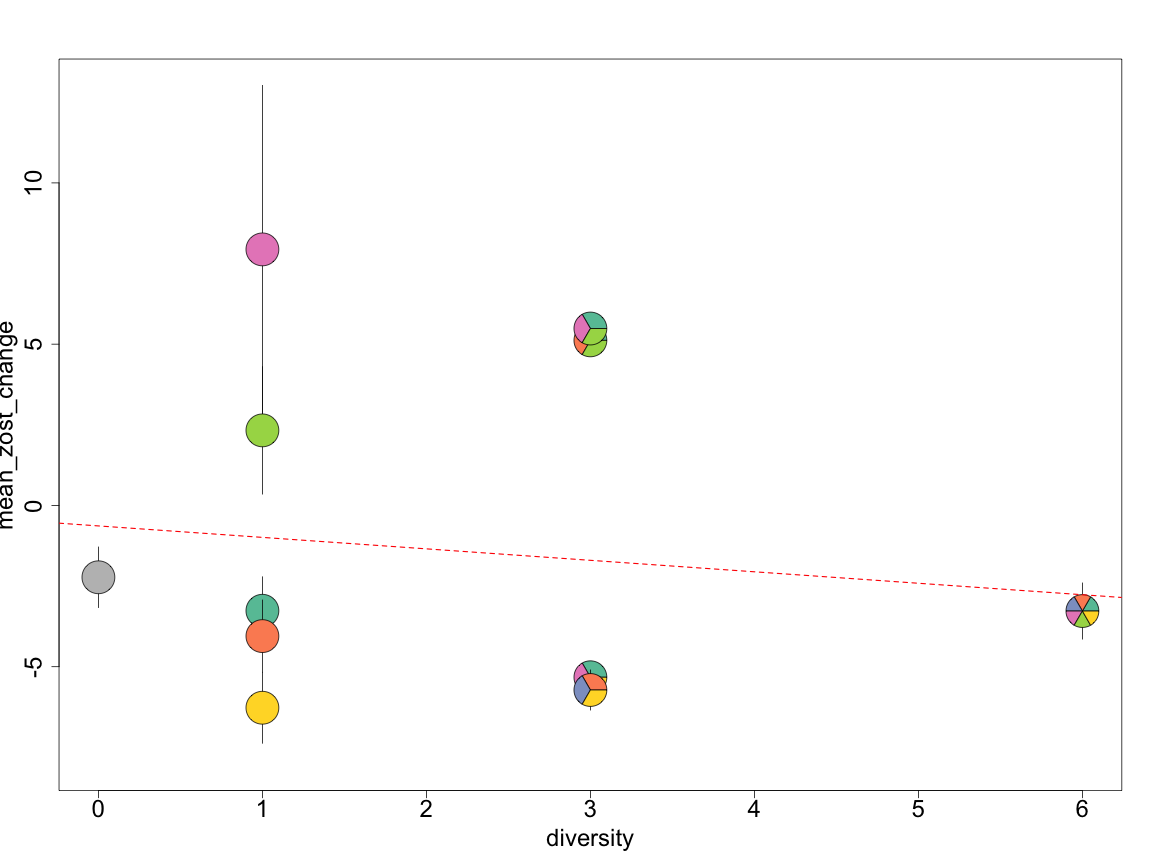
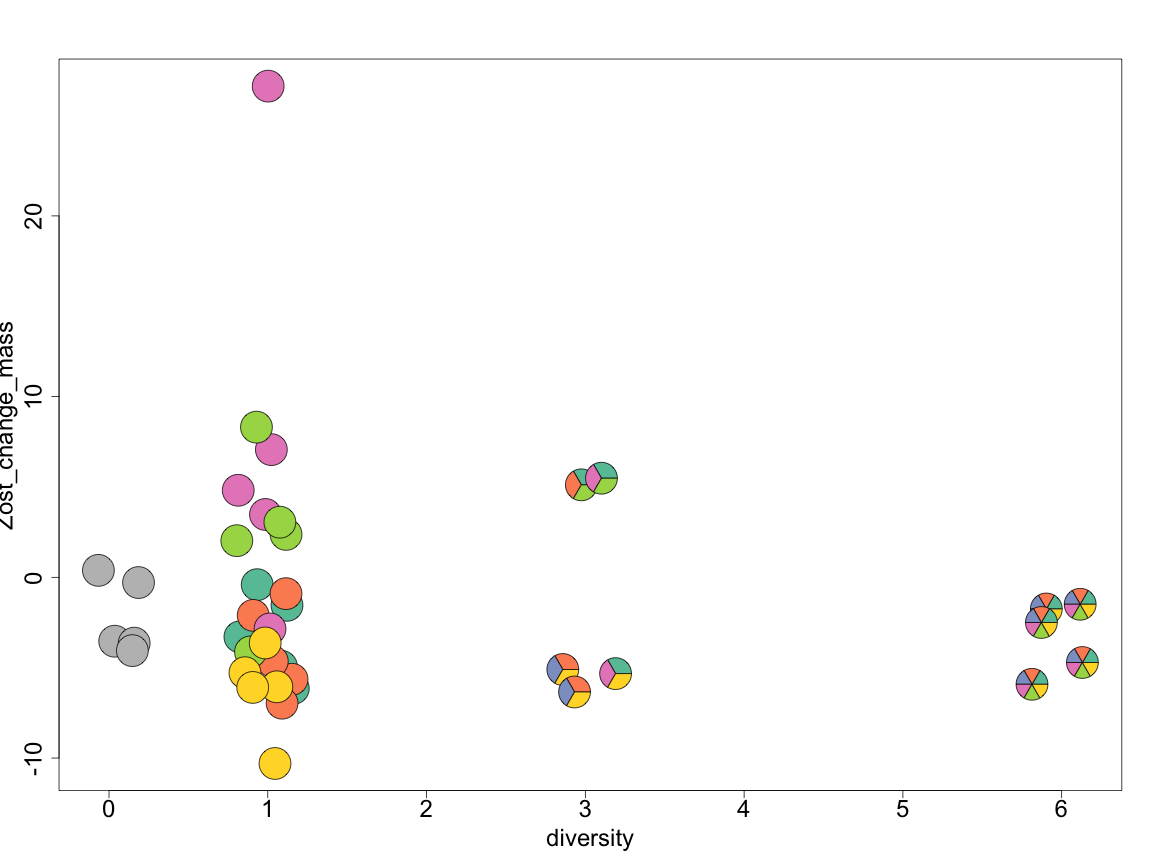
Added jitter option

diff --git a/README.md b/README.md
@@ -44,6 +44,19 @@ pieDivPlot(diversity, Zost_change_mass, sp, data = duffy_2003, cex.axis = 2,
 
 <img src="figure/unnamed-chunk-2.png" title="plot of chunk unnamed-chunk-2" alt="plot of chunk unnamed-chunk-2" width="800px" height="600px" />
 
+
+To alleviate overlap, usee the jitterAmount argument as pieDivPlot can call the jitter function to spread out values on the X axis.
+
+```r
+set.seed(697)
+
+pieDivPlot(diversity, Zost_change_mass, sp, data = duffy_2003, cex.axis = 2, 
+    cex.lab = 2, radius = 0.1, jitterAmount = 0.2)
+```
+
+<img src="figure/unnamed-chunk-3.png" title="plot of chunk unnamed-chunk-3" alt="plot of chunk unnamed-chunk-3" width="800px" height="600px" />
+
+           
 Or you can plot the data after aggregating it and show error bars.
 
 
@@ -58,13 +71,14 @@ duffy_2003_Zost <- ddply(duffy_2003, names(duffy_2003)[c(4:5, sp)], summarise,
 # for treatments with only one replicate
 duffy_2003_Zost$se_zost_change[which(is.na(duffy_2003_Zost$se_zost_change))] <- 0
 
+set.seed(697)
 pieDivPlot(diversity, mean_zost_change, 3:8, se_zost_change, data = duffy_2003_Zost, 
-    ylim = c(-8, 13), cex.axis = 2, cex.lab = 2, radius = 0.1)
+    ylim = c(-8, 13), cex.axis = 2, cex.lab = 2, radius = 0.1, jitterAmount = 0.3)
 
 abline(lm(Zost_change_mass ~ diversity, data = duffy_2003), lwd = 1.5, lty = 2, 
     col = "red")
 ```
 
-<img src="figure/unnamed-chunk-3.png" title="plot of chunk unnamed-chunk-3" alt="plot of chunk unnamed-chunk-3" width="800px" height="600px" />
+<img src="figure/unnamed-chunk-4.png" title="plot of chunk unnamed-chunk-4" alt="plot of chunk unnamed-chunk-4" width="800px" height="600px" />
 
 
